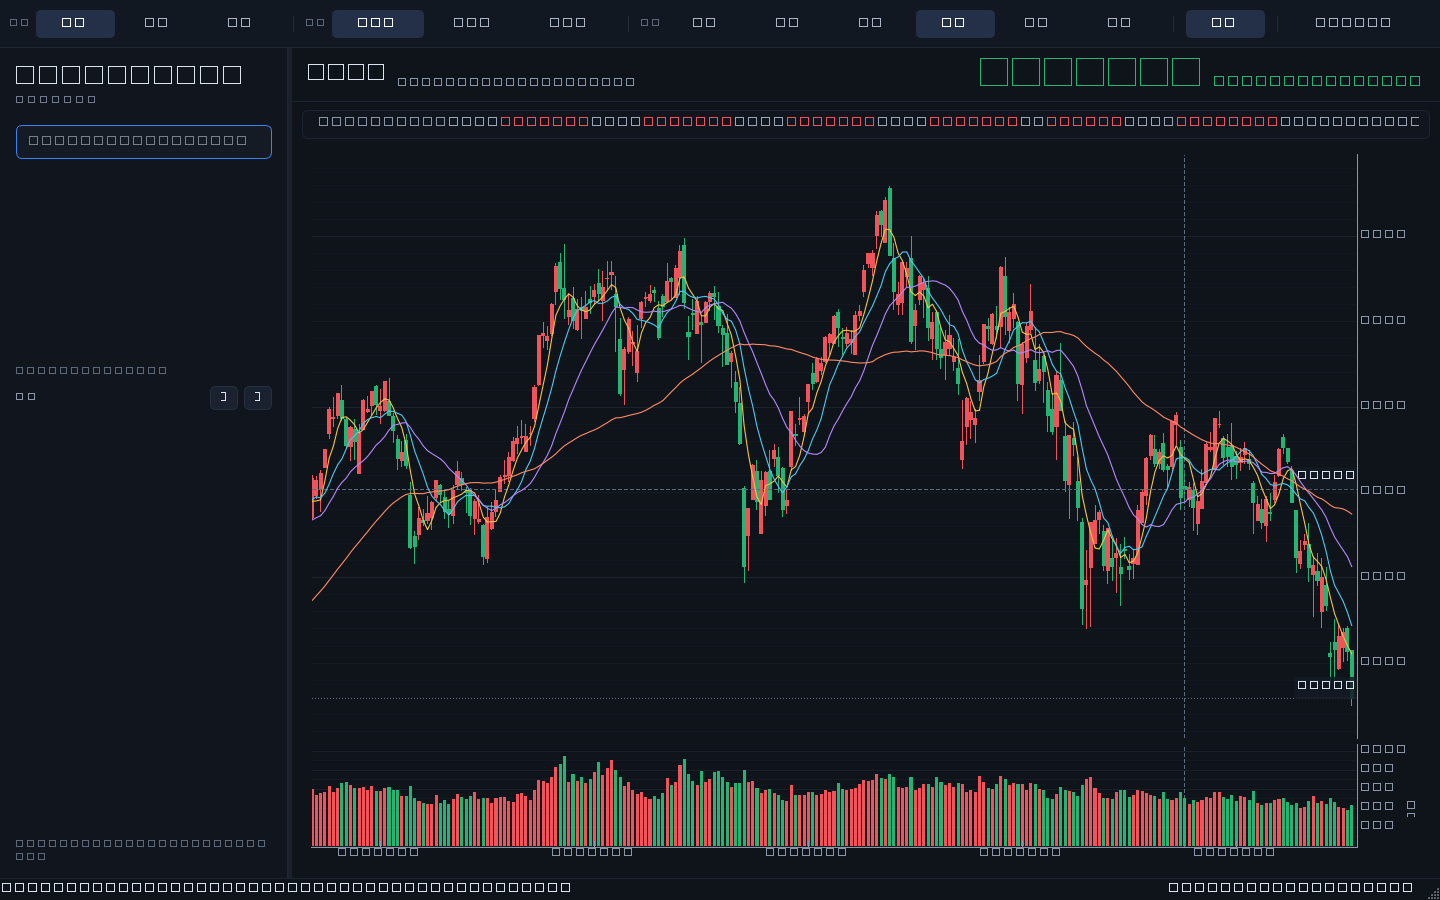
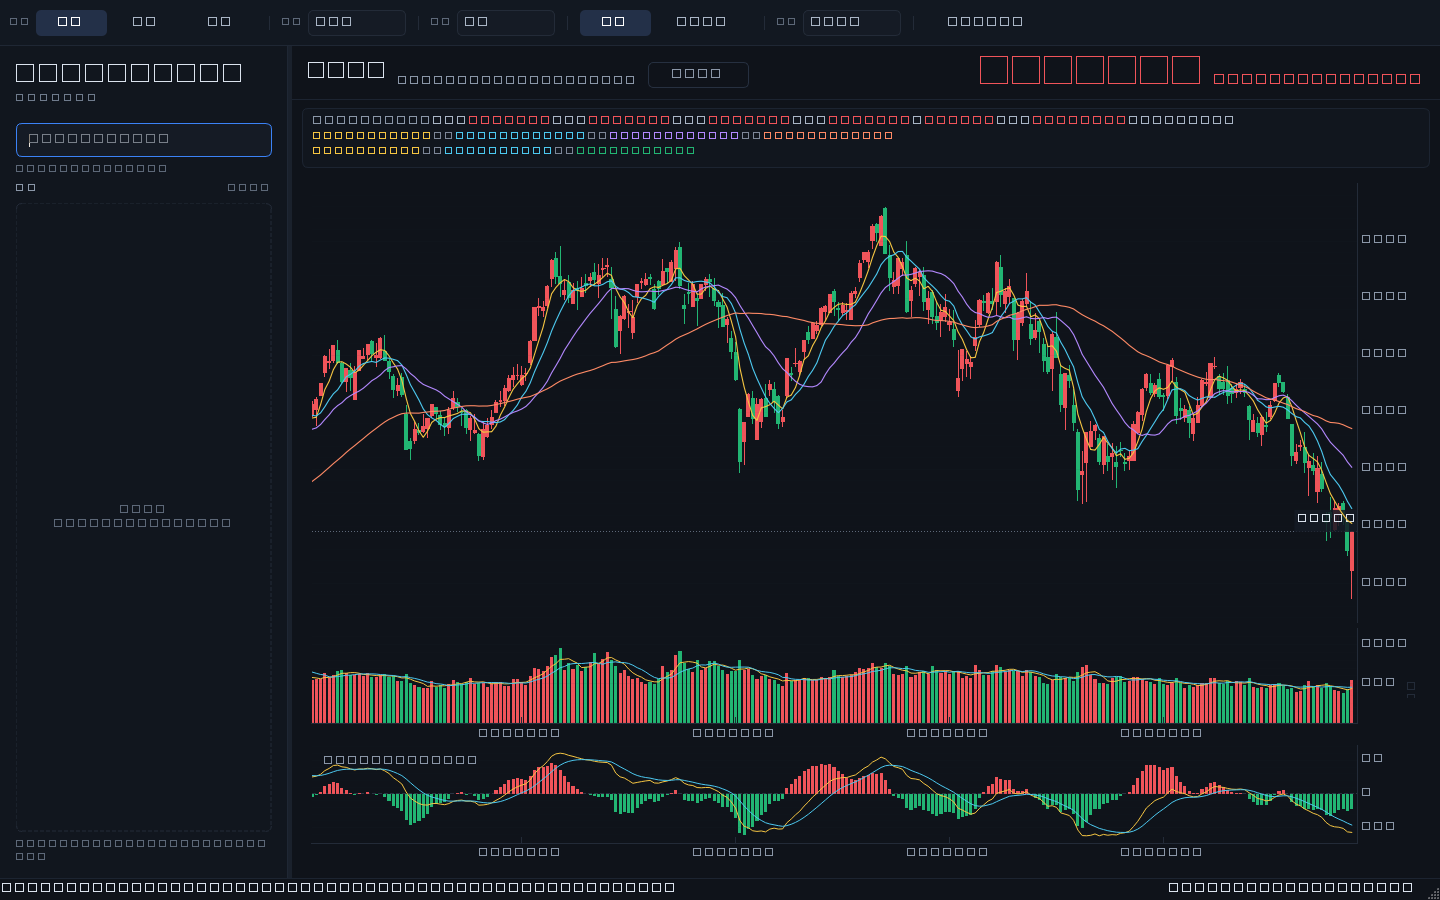
docs: 更新功能说明与界面截图
补充技术指标、动态补历史、本地搜索与自选交互说明，并更新预览图。

diff --git a/README.md b/README.md
@@ -8,10 +8,13 @@ A 股 K 线终端：Qt + pyqtgraph 自绘蜡烛图，行情来自 Baostock。
 
 - 日 / 周 / 月 K，前复权、后复权、不复权切换
 - 1 月 / 3 月 / 6 月 / 1 年 / 3 年 / 全部区间；滚轮缩放、拖拽平移
-- 十字光标：OHLC、涨跌幅、成交量、换手率、MA 值实时浮层
-- MA5 / MA10 / MA20 / MA60，成交量面板，Y 轴随可见区间自适应
-- 股票与指数搜索、自选股持久化、导出 PNG
-- 本地缓存 + 增量刷新：首屏只取最近 3 年，「全部」按需补全历史
+- 主图 MA5/10/20/60、BOLL(20,2)，成交量 MA5/10
+- 副图 MACD(12,26,9)、KDJ(9,3,3)、RSI(6,12,24)，可随时切换
+- 十字光标同步显示 OHLC、涨跌幅、成交量、换手率、均线与指标读数
+- 全历史视图自动切换收盘线，避免上千根蜡烛挤成一团；Y 轴随可见区间自适应
+- A 股与指数本地搜索、自选股持久化、导出 PNG；搜索不访问网络，港股/美股不在支持范围
+- 行情头部 ★ 一键加入/移出自选；自选列表双击加载、右键管理
+- 本地缓存 + 增量刷新：首屏只取最近 3 年，向左拖到边界自动补更早历史，「全部」按需补全
 - 深色主题、高 DPI、日期轴随缩放切换粒度
 
 ## 运行
@@ -37,11 +40,23 @@ uv run python main.py
 | `candleline/sources/base.py` | `MarketDataSource` 接口 |
 | `candleline/sources/baostock_source.py` | Baostock 会话、搜索与复权 K 线解析 |
 | `candleline/cache.py` | npz 缓存、增量合并、复权因子校验 |
-| `candleline/chart.py` | K 线控件：蜡烛、成交量、均线、十字光标、缩放 |
+| `candleline/chart.py` | K 线控件：价格、成交量、副图、十字光标、缩放 |
+| `candleline/chart_view.py` | 区间映射、视口保持与补历史触发 |
+| `candleline/header.py` | 名称、代码、最新价与涨跌 |
+| `candleline/stock_directory.py` | 本地 A 股/指数目录搜索 |
+| `candleline/stock_directory.csv` | 目录快照（约 5500 条） |
 | `candleline/items.py` | 蜡烛图元、日期轴、均线计算 |
+| `candleline/indicators.py` | SMA/EMA/MACD/KDJ/RSI/BOLL 计算 |
+| `candleline/indicator_panel.py` | MACD/KDJ/RSI 副图绘制与读数 |
+| `candleline/overlays.py` | BOLL、成交量均线、最新价线 |
+| `candleline/crosshair.py` | 跨价格/成交量/副图的十字光标 |
+| `candleline/info.py` | OHLC、均线与指标信息栏 |
 | `candleline/sidebar.py` | 搜索与自选 |
-| `candleline/toolbar.py` | 周期、复权、区间、MA 与导出 |
-| `candleline/window.py` | 主窗口、异步加载、完整历史补全 |
+| `candleline/toolbar.py` | 周期、复权、区间、叠加指标与导出 |
+| `candleline/window.py` | 主窗口、异步加载、完整历史补全与向左补历史 |
+| `candleline/window_layout.py` | 中央布局与状态栏 |
+| `tests/test_indicators.py` | 指标公式回归测试 |
+| `tests/test_data.py` | 向前补历史与缓存合并测试 |
 | `candleline/theme.py` | 配色与 QSS |
 
 ## 扩展数据源
@@ -55,7 +70,7 @@ class MySource:
     name = "my"
     def full_start(self, freq: str) -> str: ...
     def search(self, keyword: str): ...
-    def fetch(self, code, freq, adjust, is_index, start): ...
+    def fetch(self, code, freq, adjust, is_index, start, end=None): ...
 
 data.set_source(MySource())
 ```
@@ -71,10 +86,21 @@ data.set_source(MySource())
 | 缓存过期后的增量刷新 | 约 0.06 s（无新 K 线时） |
 | 首次补全 2010 年起的全部日线 | 6–40 s |
 | 全部历史二次打开 | 约 0.01 s |
+| 4078 根全量指标计算 | 约 26 ms（一次性） |
 
 周 / 月线数据量小，一次取全量，首次约 1 s。
 
+## 测试
+
+```bash
+uv run python -m unittest discover -s tests -v
+```
+
 ## 说明
 
+- 搜索使用随包附带的本地 A 股目录快照，输入后立即返回；腾讯等港股、美股不在目录中，会直接提示无匹配，不会等待在线查询。行情仍由 Baostock 提供。
+- 向左拖动接近缓存起点时，会自动向前补约 2 年日线；补齐后按完整序列重算均线与指标，视口保持原日期区间。
+- 成交量均线对缺失成交量按可用值计算，不会因单日缺数中断整条线。
+- MACD 柱按国内软件惯例取 `2 * (DIF - DEA)`；KDJ、RSI 使用 Wilder 平滑。
 - 数据仅供学习研究，不构成投资建议。
 - 默认前复权。周 / 月线没有 `preclose` 字段，涨跌额按上一周期收盘价计算。
